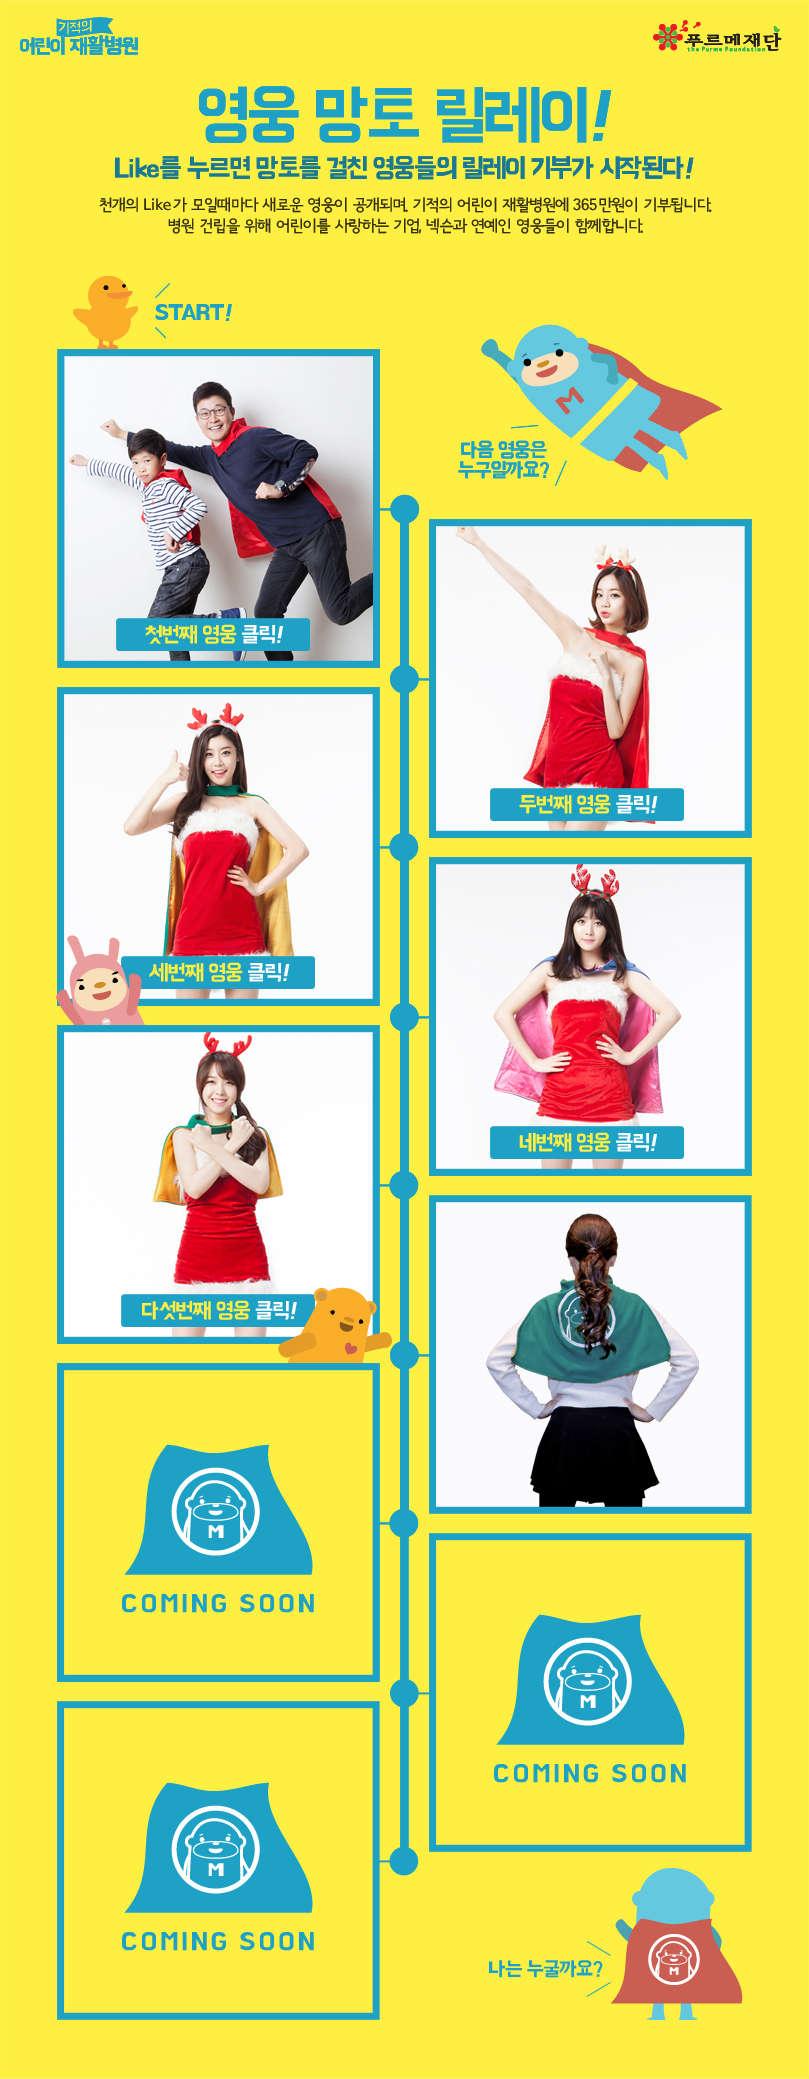
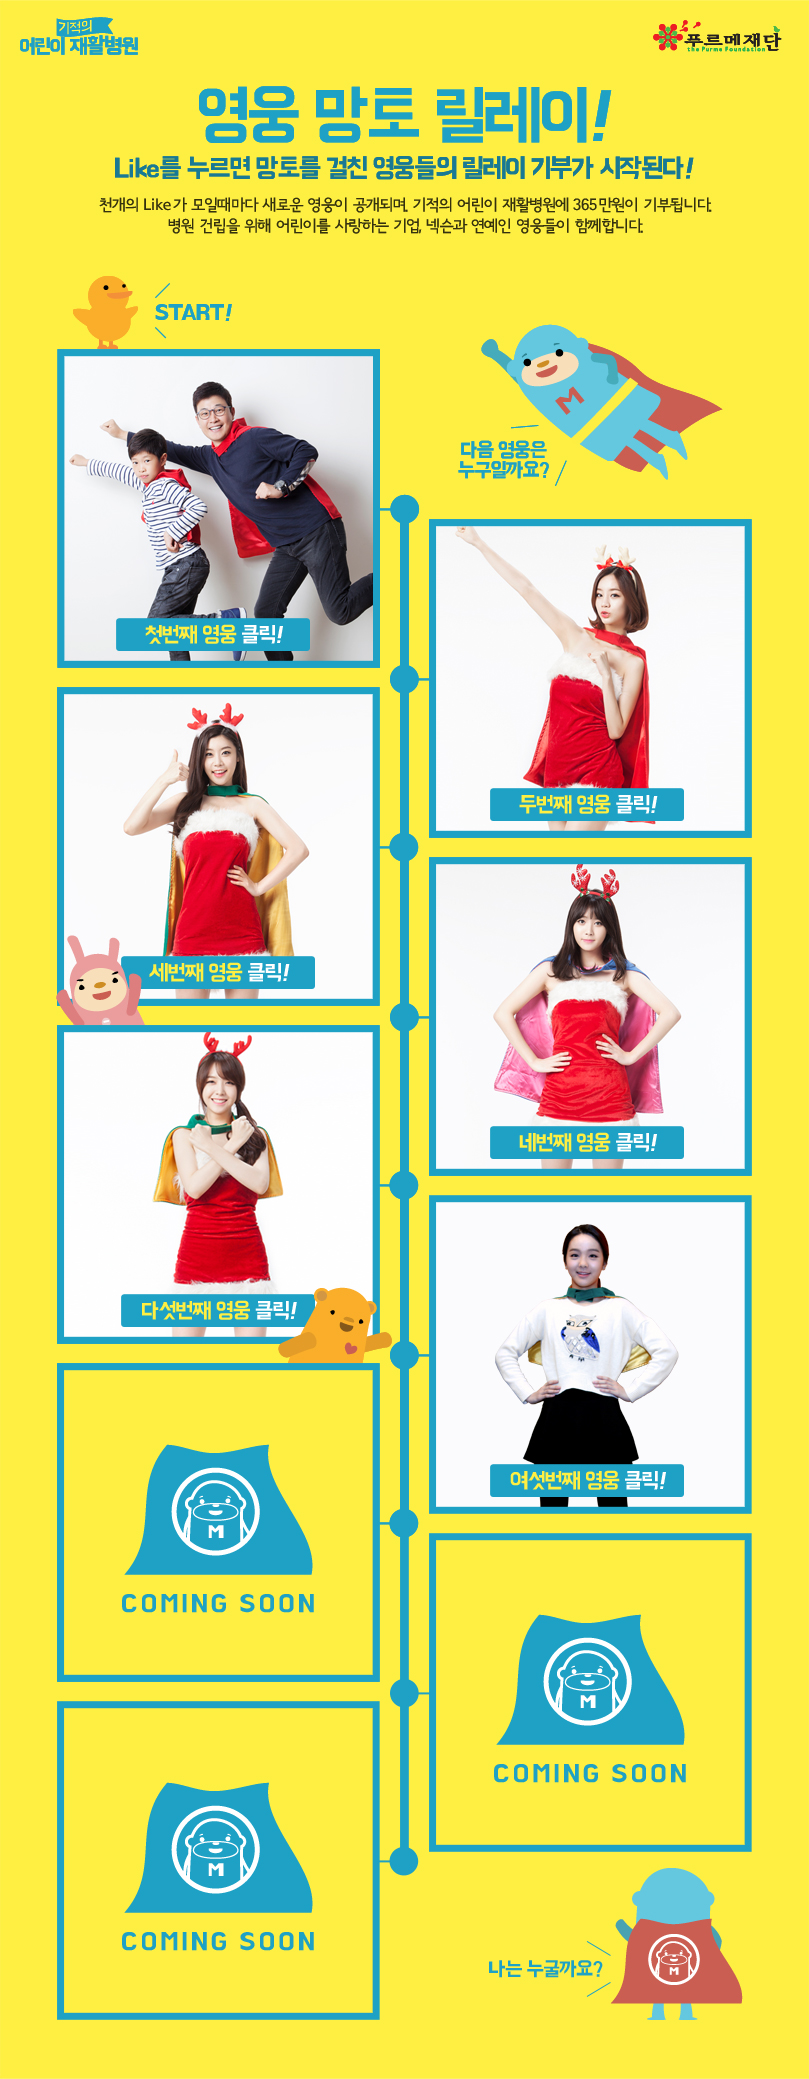
새 영웅 추가

Changed region(s): [[0.5871, 0.5849, 0.8653, 0.7388]]

diff --git a/app/controllers/relay_controller.rb b/app/controllers/relay_controller.rb
@@ -27,13 +27,14 @@ class RelayController < ApplicationController
   end
   
   def mobile_fangate
+    Rails.logger.info "@@@@@@ fangate start @@@@@@@@"
     if params[:uid].nil? == false and User.exists?(uid: params[:uid]).nil? == false
       user = User.find_by_uid(params[:uid])
       if check_like(user) == true
         Rails.logger.info "@@@@@@ go to mobile_path"
         redirect_to mobile_relay_path({uid: params[:uid]})
       else
-        render :layout => 'mobile_relay'
+        # render :layout => 'mobile_relay'
       end
     else
       redirect_to mobile_relay_login_path
@@ -41,7 +42,7 @@ class RelayController < ApplicationController
   end
   
   def mobile_relay
-    if params[:uid].nil? == false and User.exists?(uid: params[:uid]).nil? == false
+    if params[:uid].nil? == false and User.exists?(uid: params[:uid]).nil? == false      
       user = User.find_by_uid(params[:uid])
       if check_like(user) == false
         redirect_to mobile_relay_login_path({uid: params[:uid]})
@@ -53,6 +54,7 @@ class RelayController < ApplicationController
   end
   
   def mobile_login
+    Rails.logger.info "@@@@@@ mobile_login start @@@@@@@@"
     if params[:uid].nil? == false and User.exists?(uid: params[:uid]).nil? == false
       user = User.find_by_uid(params[:uid])
       if check_like(user) == true
